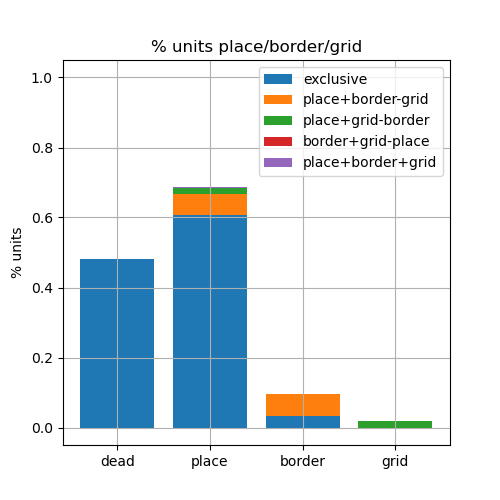
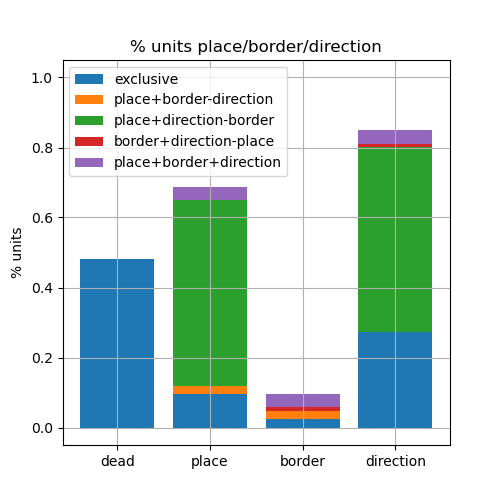
update figs: drop grid; adopts directionality score Banino 2018

Changed region(s): [[0.15, 0.06, 0.9, 0.87], [0.72, 0.9, 0.84, 0.96], [0.87, 0.15, 0.9, 0.18]]

diff --git a/inspect_model_units.py b/inspect_model_units.py
@@ -1399,6 +1399,7 @@ def _single_env_viz_unit_chart(
     grid_cell_indices = []
     border_cell_indices = []
     place_cells_indices = []
+    direction_cell_indices = []
 
     for unit_index in range(unit_chart_info.shape[0]):
         if unit_chart_info[unit_index, 0] == 0:
@@ -1409,6 +1410,8 @@ def _single_env_viz_unit_chart(
             cluster_peaks.extend(unit_chart_info[unit_index, 3])
             if unit_chart_info[unit_index, 1] > 0:
                 place_cells_indices.append(unit_index)
+            if unit_chart_info[unit_index, 6] > 0.47:
+                direction_cell_indices.append(unit_index)
             if unit_chart_info[unit_index, 8] > 0.37:
                 grid_cell_indices.append(unit_index)
             if unit_chart_info[unit_index, 9] > 0.5:
@@ -1420,6 +1423,7 @@ def _single_env_viz_unit_chart(
     n_place_cells = len(place_cells_indices)
     n_grid_cells = len(grid_cell_indices)
     n_border_cells = len(border_cell_indices)
+    n_direction_cells = len(direction_cell_indices)
 
     fig, axes = plt.subplots(
         nrows=8, 
@@ -1539,60 +1543,60 @@ def _single_env_viz_unit_chart(
     plt.close()
 
     # TODO: improve this plot
-    # plot cell type proportions (dead, place, grid, border)
-    # and for place, grid and border cells, we plot the overlap
+    # plot cell type proportions (dead, place, direction, border)
+    # and for place, direction and border cells, we plot the overlap
     # between them as stacked bar chart (e.g. for the place cell
     # plot, we plot the proportion of place cells that are
-    # exclusive place cells, place and grid cells, place and border cells, etc)
+    # exclusive place cells, place and direction cells, place and border cells, etc)
     fig, ax = plt.subplots(
         nrows=1,
         ncols=1,
         figsize=(5, 5)
     )
     # Collect the indices of units that are all three types
-    # (place + border + grid)
-    place_border_grid_cells_indices = \
-        list(set(place_cells_indices) & set(border_cell_indices) & set(grid_cell_indices))
+    # (place + border + direction)
+    place_border_direction_cells_indices = \
+        list(set(place_cells_indices) & set(border_cell_indices) & set(direction_cell_indices))
     
     # Collect the indices of units that are two types (inc. three types)
     # (place + border cells)
-    # (place + grid cells)
-    # (border + grid cells)
+    # (place + direction cells)
+    # (border + direction cells)
     place_and_border_cells_indices = \
         list(set(place_cells_indices) & set(border_cell_indices))
-    place_and_grid_cells_indices = \
-        list(set(place_cells_indices) & set(grid_cell_indices))
-    border_and_grid_cells_indices = \
-        list(set(border_cell_indices) & set(grid_cell_indices))
+    place_and_direction_cells_indices = \
+        list(set(place_cells_indices) & set(direction_cell_indices))
+    border_and_direction_cells_indices = \
+        list(set(border_cell_indices) & set(direction_cell_indices))
     
     # Collect the indices of units that are only two types
-    # (place  + border - grid),
-    # (place  + grid   - border),
-    # (border + grid   - place)
-    place_and_border_not_grid_cells_indices = \
-        list(set(place_and_border_cells_indices) - set(place_border_grid_cells_indices))
-    place_and_grid_not_border_cells_indices = \
-        list(set(place_and_grid_cells_indices) - set(place_border_grid_cells_indices))
-    border_and_grid_not_place_cells_indices = \
-        list(set(border_and_grid_cells_indices) - set(place_border_grid_cells_indices))
+    # (place  + border - direction),
+    # (place  + direction   - border),
+    # (border + direction   - place)
+    place_and_border_not_direction_cells_indices = \
+        list(set(place_and_border_cells_indices) - set(place_border_direction_cells_indices))
+    place_and_direction_not_border_cells_indices = \
+        list(set(place_and_direction_cells_indices) - set(place_border_direction_cells_indices))
+    border_and_direction_not_place_cells_indices = \
+        list(set(border_and_direction_cells_indices) - set(place_border_direction_cells_indices))
     
     # Collect the indices of units that are exclusive 
     # place cells, 
     # border cells, 
-    # grid cells
+    # direction cells
     exclusive_place_cells_indices = \
-        list(set(place_cells_indices) - (set(place_and_border_cells_indices) | set(place_and_grid_cells_indices)))
+        list(set(place_cells_indices) - (set(place_and_border_cells_indices) | set(place_and_direction_cells_indices)))
     exclusive_border_cells_indices = \
-        list(set(border_cell_indices) - (set(place_and_border_cells_indices) | set(border_and_grid_cells_indices)))
-    exclusive_grid_cells_indices = \
-        list(set(grid_cell_indices) - (set(place_and_grid_cells_indices) | set(border_and_grid_cells_indices)))
+        list(set(border_cell_indices) - (set(place_and_border_cells_indices) | set(border_and_direction_cells_indices)))
+    exclusive_direction_cells_indices = \
+        list(set(direction_cell_indices) - (set(place_and_direction_cells_indices) | set(border_and_direction_cells_indices)))
 
     top = np.array(
             [
                 n_dead_units/unit_chart_info.shape[0],
                 len(exclusive_place_cells_indices)/n_active_units,
                 len(exclusive_border_cells_indices)/n_active_units,
-                len(exclusive_grid_cells_indices)/n_active_units
+                len(exclusive_direction_cells_indices)/n_active_units
         ]
     )
     bottom = np.array([0., 0., 0., 0.])
@@ -1607,8 +1611,8 @@ def _single_env_viz_unit_chart(
     top = np.array(
             [
                 0, 
-                len(place_and_border_not_grid_cells_indices)/n_active_units, # place+border-grid
-                len(place_and_border_not_grid_cells_indices)/n_active_units, # place+border-grid
+                len(place_and_border_not_direction_cells_indices)/n_active_units, # place+border-direction
+                len(place_and_border_not_direction_cells_indices)/n_active_units, # place+border-direction
                 0,                                                              
         ]
     )
@@ -1616,23 +1620,23 @@ def _single_env_viz_unit_chart(
         np.arange(4),
         top,
         bottom=bottom,
-        label='place+border-grid'
+        label='place+border-direction'
     )
 
     bottom += top
     top = np.array(
             [
                 0,
-                len(place_and_grid_not_border_cells_indices)/n_active_units, # place+grid-border
+                len(place_and_direction_not_border_cells_indices)/n_active_units, # place+direction-border
                 0,
-                len(place_and_grid_not_border_cells_indices)/n_active_units, # place+grid-border
+                len(place_and_direction_not_border_cells_indices)/n_active_units, # place+direction-border
         ]
     )
     ax.bar(
         np.arange(4),
         top,
         bottom=bottom,
-        label='place+grid-border'
+        label='place+direction-border'
     )
 
     bottom += top
@@ -1640,37 +1644,37 @@ def _single_env_viz_unit_chart(
             [
                 0,
                 0,
-                len(border_and_grid_not_place_cells_indices)/n_active_units, # border+grid-place
-                len(border_and_grid_not_place_cells_indices)/n_active_units, # border+grid-place
+                len(border_and_direction_not_place_cells_indices)/n_active_units, # border+direction-place
+                len(border_and_direction_not_place_cells_indices)/n_active_units, # border+direction-place
         ]
     )
     ax.bar(
         np.arange(4),
         top,
         bottom=bottom,
-        label='border+grid-place'
+        label='border+direction-place'
     )
 
     bottom += top
     top = np.array(
             [   
                 0,
-                len(place_border_grid_cells_indices)/n_active_units, # place+border+grid
-                len(place_border_grid_cells_indices)/n_active_units, # place+border+grid
-                len(place_border_grid_cells_indices)/n_active_units, # place+border+grid
+                len(place_border_direction_cells_indices)/n_active_units, # place+border+direction
+                len(place_border_direction_cells_indices)/n_active_units, # place+border+direction
+                len(place_border_direction_cells_indices)/n_active_units, # place+border+direction
         ]
     )
     ax.bar(
         np.arange(4),
         top,
         bottom=bottom,
-        label='place+border+grid'
+        label='place+border+direction'
     )
 
     ax.set_xticks(np.arange(4))
-    ax.set_xticklabels(['dead', 'place', 'border', 'grid'])
+    ax.set_xticklabels(['dead', 'place', 'border', 'direction'])
     ax.set_ylabel('% units')
-    ax.set_title(f'% units place/border/grid')
+    ax.set_title(f'% units place/border/direction')
     ax.set_ylim([-.05, 1.05])
     ax.grid()
     ax.legend()

diff --git a/data.py b/data.py
@@ -264,11 +264,12 @@ def load_model_layers(model_name):
             [
                 'final_avg_pool',
                 'block_group4',
-                'block_group2',
-                'block_group1'
+                # 'block_group2',
+                # 'block_group1'
             ],
         'vgg16':
             [   
+                'predictions',
                 'fc2',
                 'block5_pool',
                 'block4_pool',
@@ -278,15 +279,15 @@ def load_model_layers(model_name):
             [
                 'avg_pool',
                 'conv5_block2_out',
-                'conv4_block6_out',
-                'conv2_block3_out',
+                # 'conv4_block6_out',
+                # 'conv2_block3_out',
             ],
         'vit_b16':
             [   
                 'layer_12',
                 'layer_9',
-                'layer_6',
-                'layer_3',
+                # 'layer_6',
+                # 'layer_3',
             ],
     }
     return models_and_layers[model_name]
